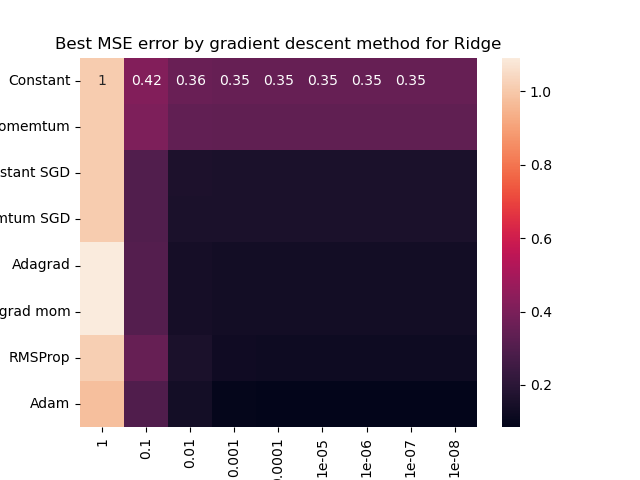
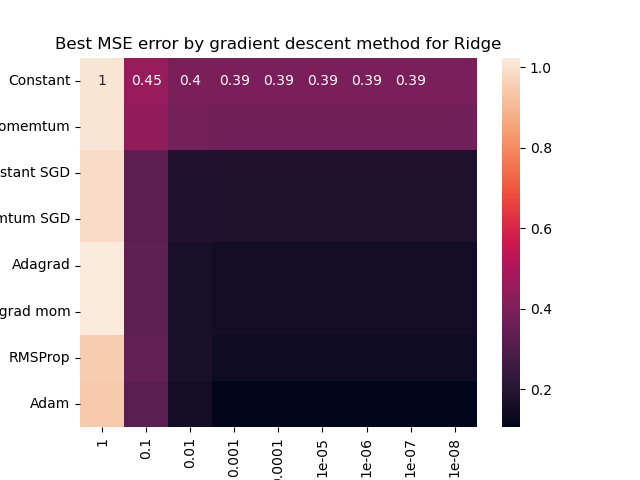
Made partARidge now repeat experiment 5 tmes with different seeds and take average over that. Heatmap for ridge got broken by my plot, so someone else need to to just run the program to make it nice.

diff --git a/partARidge.py b/partARidge.py
@@ -105,6 +105,7 @@ def plot_etas_lams(etas, lams, MSEs, title, filename):
     plt.title(title)
     plt.tight_layout()
     plt.savefig(path / filename)
+    plt.close()
 
 def fit(X, y, grad_cost_func, scheduler, batches = 1, epochs = 100, seed = 13):
     '''
@@ -152,167 +153,186 @@ def fit(X, y, grad_cost_func, scheduler, batches = 1, epochs = 100, seed = 13):
 def f(x):
     return -3+5 * x -3*x**2
 
-n_datapoints = 100
-x = np.random.rand(n_datapoints, 1)
-y = f(x) + 0.3*np.random.randn(n_datapoints, 1)
-X = np.c_[np.ones(n_datapoints), x, x**2]
-
-#Define hyperparamaters to be used.
-n_etas = 10
-n_lams = 9
-etas = [10**(-k) for k in range(n_etas)]
-lams = [10**(-k) for k in range(n_lams)]
-batches = 10
-epochs = 20
-n_methods = 8
-
-#Keep track of best achieved MSE
-MSE_best_by_method = []
+#Keep track of MSE over all runs
+MSE_best_by_method_all = []
 MSE_method_names = []
 
-'''
-Next part runs though different gradient descent methods including
-Not stochastic descent:
-Constant
-Momemtum
+seeds = range(5)
+for seed in seeds:
+    np.random.seed(seed)   
 
-Stochastic Gradient Descent:
-Constant
-Momemtum
-Adagrad
-Adagrad Momemtum
-RMSprop
-Adam
-'''
+    n_datapoints = 100
+    x = np.random.rand(n_datapoints, 1)
+    y = f(x) + 0.3*np.random.randn(n_datapoints, 1)
+    X = np.c_[np.ones(n_datapoints), x, x**2]
 
-# Constant 
-method_name = "Constant"
-MSEs = np.zeros((n_etas, n_lams))
-for i, eta in enumerate(etas):
-    for j, lam in enumerate(lams):
-        scheduler = Constant(eta)
-        theta = fit(X, y, grad_cost_Ridge_lam(lam), scheduler, epochs=epochs)
-        #print(theta)
-        MSEs[i][j] = cost_OLS(y, X, theta)
+    #Define hyperparamaters to be used.
+    n_etas = 10
+    n_lams = 9
+    etas = [10**(-k) for k in range(n_etas)]
+    lams = [10**(-k) for k in range(n_lams)]
+    batches = 10
+    epochs = 20
+    n_methods = 8
 
-MSE_best_by_method.append(np.min(MSEs, axis = 0))
-print(f"Best by method MSE {np.shape(np.asarray(MSE_best_by_method))}")
-MSE_method_names.append("Constant")
-print(f"MSE momentum: {MSEs}")
-plot_etas_lams(etas, lams, MSEs, method_name, method_name + ".png")
+    #Keep track of best achieved MSE
+    MSE_best_by_method = []
+    MSE_method_names = []
 
-#Momentum
-method_name = "Momemtum"
-MSEs = np.zeros((n_etas, n_lams))
-for i, eta in enumerate(etas):
-    for j, lam in enumerate(lams):
-        scheduler = Momentum(eta, 0.1)
-        theta = fit(X, y, grad_cost_Ridge_lam(lam), scheduler, epochs=epochs)
-        MSEs[i][j] = cost_OLS(y, X, theta)
+    '''
+    Next part runs though different gradient descent methods including
+    Not stochastic descent:
+    Constant
+    Momemtum
 
-MSE_best_by_method.append(np.min(MSEs, axis = 0))
-MSE_method_names.append("Momemtum")
-print(f"MSE momentum: {MSEs}")
-plot_etas_lams(etas, lams, MSEs, method_name, method_name + ".png")
+    Stochastic Gradient Descent:
+    Constant
+    Momemtum
+    Adagrad
+    Adagrad Momemtum
+    RMSprop
+    Adam
+    '''
 
+    # Constant 
+    method_name = "Constant"
+    MSEs = np.zeros((n_etas, n_lams))
+    for i, eta in enumerate(etas):
+        for j, lam in enumerate(lams):
+            scheduler = Constant(eta)
+            theta = fit(X, y, grad_cost_Ridge_lam(lam), scheduler, epochs=epochs)
+            #print(theta)
+            MSEs[i][j] = cost_OLS(y, X, theta)
 
-#Stochastic constant
-method_name = "Constant_SGD"
-MSEs = np.zeros((n_etas, n_lams))
-for i, eta in enumerate(etas):
-    for j, lam in enumerate(lams):
-        scheduler = Constant(eta)
-        theta = fit(X, y, grad_cost_Ridge_lam(lam),scheduler, batches=batches, epochs=epochs)
-        MSEs[i][j] = cost_OLS(y, X, theta)
+    MSE_best_by_method.append(np.min(MSEs, axis = 0))
+    print(f"Best by method MSE {np.shape(np.asarray(MSE_best_by_method))}")
+    MSE_method_names.append("Constant")
+    print(f"MSE momentum: {MSEs}")
+    plot_etas_lams(etas, lams, MSEs, method_name, method_name + ".png")
 
-MSE_best_by_method.append(np.min(MSEs, axis = 0))
-MSE_method_names.append("Constant SGD")
-print(f"MSE momentum: {MSEs}")
-plot_etas_lams(etas, lams, MSEs, method_name, method_name + ".png")
+    #Momentum
+    method_name = "Momemtum"
+    MSEs = np.zeros((n_etas, n_lams))
+    for i, eta in enumerate(etas):
+        for j, lam in enumerate(lams):
+            scheduler = Momentum(eta, 0.1)
+            theta = fit(X, y, grad_cost_Ridge_lam(lam), scheduler, epochs=epochs)
+            MSEs[i][j] = cost_OLS(y, X, theta)
 
-
-#SGD with momemtum
-method_name = "Momemtum_SGD"
-MSEs = np.zeros((n_etas, n_lams))
-for i, eta in enumerate(etas):
-    for j, lam in enumerate(lams):
-        scheduler = Momentum(eta, 0.1)
-        theta = fit(X, y, grad_cost_Ridge_lam(lam),scheduler, batches=batches, epochs=epochs)
-        #print(theta)
-        MSEs[i][j] = cost_OLS(y, X, theta)
-
-MSE_best_by_method.append(np.min(MSEs, axis = 0))
-MSE_method_names.append("Momemtum SGD")
-print(f"MSE momentum: {MSEs}")
-plot_etas_lams(etas, lams, MSEs, method_name, method_name + ".png")
+    MSE_best_by_method.append(np.min(MSEs, axis = 0))
+    MSE_method_names.append("Momemtum")
+    print(f"MSE momentum: {MSEs}")
+    plot_etas_lams(etas, lams, MSEs, method_name, method_name + ".png")
 
 
+    #Stochastic constant
+    method_name = "Constant_SGD"
+    MSEs = np.zeros((n_etas, n_lams))
+    for i, eta in enumerate(etas):
+        for j, lam in enumerate(lams):
+            scheduler = Constant(eta)
+            theta = fit(X, y, grad_cost_Ridge_lam(lam),scheduler, batches=batches, epochs=epochs)
+            MSEs[i][j] = cost_OLS(y, X, theta)
 
-# 4 Adagrad no momemtum
-method_name = "Adagrad"
-MSEs = np.zeros((n_etas, n_lams))
-for i, eta in enumerate(etas):
-    for j, lam in enumerate(lams):
-        scheduler = Adagrad(eta)
-        theta = fit(X, y, grad_cost_Ridge_lam(lam),scheduler, batches=batches, epochs=epochs)
-        #print(theta)
-        MSEs[i][j] = cost_OLS(y, X, theta)
-
-MSE_best_by_method.append(np.min(MSEs, axis = 0))
-MSE_method_names.append("Adagrad")
-print(f"MSE momentum: {MSEs}")
-plot_etas_lams(etas, lams, MSEs, method_name, method_name + ".png")
+    MSE_best_by_method.append(np.min(MSEs, axis = 0))
+    MSE_method_names.append("Constant SGD")
+    print(f"MSE momentum: {MSEs}")
+    plot_etas_lams(etas, lams, MSEs, method_name, method_name + ".png")
 
 
-#Adagrad with momemtum
-method_name = "AdagradMomemtum"
-MSEs = np.zeros((n_etas, n_lams))
-for i, eta in enumerate(etas):
-    for j, lam in enumerate(lams):
-        scheduler = AdagradMomentum(eta, 0)
-        theta = fit(X, y, grad_cost_Ridge_lam(lam),scheduler, batches=batches, epochs=epochs)
-        #print(theta)
-        MSEs[i][j] = cost_OLS(y, X, theta)
+    #SGD with momemtum
+    method_name = "Momemtum_SGD"
+    MSEs = np.zeros((n_etas, n_lams))
+    for i, eta in enumerate(etas):
+        for j, lam in enumerate(lams):
+            scheduler = Momentum(eta, 0.1)
+            theta = fit(X, y, grad_cost_Ridge_lam(lam),scheduler, batches=batches, epochs=epochs)
+            #print(theta)
+            MSEs[i][j] = cost_OLS(y, X, theta)
 
-MSE_best_by_method.append(np.min(MSEs, axis = 0))
-MSE_method_names.append("Adagrad mom")
-print(f"MSE momentum: {MSEs}")
-plot_etas_lams(etas, lams, MSEs, method_name, method_name + ".png")
+    MSE_best_by_method.append(np.min(MSEs, axis = 0))
+    MSE_method_names.append("Momemtum SGD")
+    print(f"MSE momentum: {MSEs}")
+    plot_etas_lams(etas, lams, MSEs, method_name, method_name + ".png")
 
 
 
-# 5 RSMProp
-method_name = "RMSprop"
-MSEs = np.zeros((n_etas, n_lams))
-for i, eta in enumerate(etas):
-    for j, lam in enumerate(lams):
-        scheduler = RMS_prop(eta, 0.9)
-        theta = fit(X, y, grad_cost_Ridge_lam(lam),scheduler, batches=batches, epochs=epochs)
-        #print(theta)
-        MSEs[i][j] = cost_OLS(y, X, theta)
+    # 4 Adagrad no momemtum
+    method_name = "Adagrad"
+    MSEs = np.zeros((n_etas, n_lams))
+    for i, eta in enumerate(etas):
+        for j, lam in enumerate(lams):
+            scheduler = Adagrad(eta)
+            theta = fit(X, y, grad_cost_Ridge_lam(lam),scheduler, batches=batches, epochs=epochs)
+            #print(theta)
+            MSEs[i][j] = cost_OLS(y, X, theta)
 
-MSE_best_by_method.append(np.min(MSEs, axis = 0))
-MSE_method_names.append("RMSProp")
-print(f"MSE momentum: {MSEs}")
-plot_etas_lams(etas, lams, MSEs, method_name, method_name + ".png")
+    MSE_best_by_method.append(np.min(MSEs, axis = 0))
+    MSE_method_names.append("Adagrad")
+    print(f"MSE momentum: {MSEs}")
+    plot_etas_lams(etas, lams, MSEs, method_name, method_name + ".png")
+
+
+    #Adagrad with momemtum
+    method_name = "AdagradMomemtum"
+    MSEs = np.zeros((n_etas, n_lams))
+    for i, eta in enumerate(etas):
+        for j, lam in enumerate(lams):
+            scheduler = AdagradMomentum(eta, 0)
+            theta = fit(X, y, grad_cost_Ridge_lam(lam),scheduler, batches=batches, epochs=epochs)
+            #print(theta)
+            MSEs[i][j] = cost_OLS(y, X, theta)
+
+    MSE_best_by_method.append(np.min(MSEs, axis = 0))
+    MSE_method_names.append("Adagrad mom")
+    print(f"MSE momentum: {MSEs}")
+    plot_etas_lams(etas, lams, MSEs, method_name, method_name + ".png")
 
 
 
-# Adam
-method_name = "Adam"
-MSEs = np.zeros((n_etas, n_lams))
-for i, eta in enumerate(etas):
-    for j, lam in enumerate(lams):
-        scheduler = Adam(eta, 0.9, 0.99)
-        theta = fit(X, y, grad_cost_Ridge_lam(lam),scheduler, batches=batches, epochs=epochs)
-        #print(theta)
-        MSEs[i][j] = cost_OLS(y, X, theta)
+    # 5 RSMProp
+    method_name = "RMSprop"
+    MSEs = np.zeros((n_etas, n_lams))
+    for i, eta in enumerate(etas):
+        for j, lam in enumerate(lams):
+            scheduler = RMS_prop(eta, 0.9)
+            theta = fit(X, y, grad_cost_Ridge_lam(lam),scheduler, batches=batches, epochs=epochs)
+            #print(theta)
+            MSEs[i][j] = cost_OLS(y, X, theta)
 
-MSE_best_by_method.append(np.min(MSEs, axis = 0))
-MSE_method_names.append("Adam")
-print(f"MSE momentum: {MSEs}")
-plot_etas_lams(etas, lams, MSEs, method_name, method_name + ".png")
+    MSE_best_by_method.append(np.min(MSEs, axis = 0))
+    MSE_method_names.append("RMSProp")
+    print(f"MSE momentum: {MSEs}")
+    plot_etas_lams(etas, lams, MSEs, method_name, method_name + ".png")
 
+
+
+    # Adam
+    method_name = "Adam"
+    MSEs = np.zeros((n_etas, n_lams))
+    for i, eta in enumerate(etas):
+        for j, lam in enumerate(lams):
+            scheduler = Adam(eta, 0.9, 0.99)
+            theta = fit(X, y, grad_cost_Ridge_lam(lam),scheduler, batches=batches, epochs=epochs)
+            #print(theta)
+            MSEs[i][j] = cost_OLS(y, X, theta)
+
+    MSE_best_by_method.append(np.min(MSEs, axis = 0))
+    MSE_method_names.append("Adam")
+    print(f"MSE momentum: {MSEs}")
+    plot_etas_lams(etas, lams, MSEs, method_name, method_name + ".png")
+
+
+    #Add results of this run to list
+    MSE_best_by_method_all.append(MSE_best_by_method)
+
+
+MSE_best_by_method = np.asarray(MSE_best_by_method_all)
+print(np.shape(MSE_best_by_method))
+print(f"Array of MSE by method and run {MSE_best_by_method}")
+
+#Average over all the runs
+MSE_best_by_method = np.mean(MSE_best_by_method, axis=0)
 
 #Define path for plot
 path = Path(cwd) / "FigurePlots"
@@ -345,7 +365,6 @@ plt.xticks(rotation=-30)
 plt.tight_layout()
 plt.savefig(path / "PartARidge.png")
 '''
-
 
 
 
